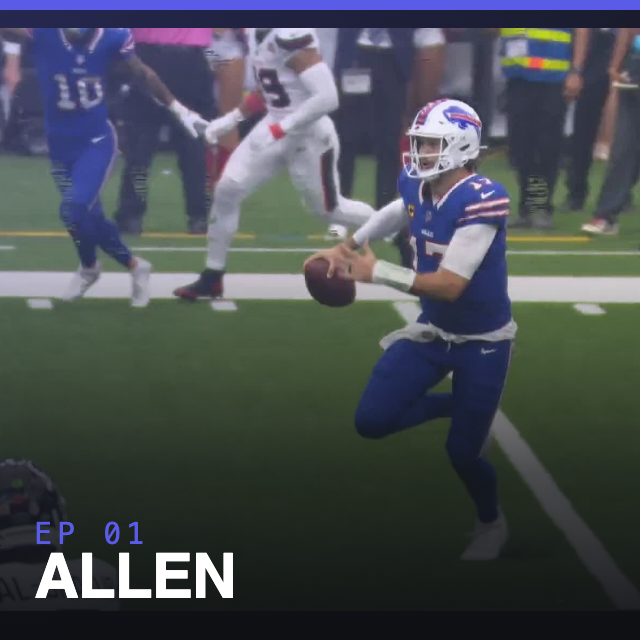
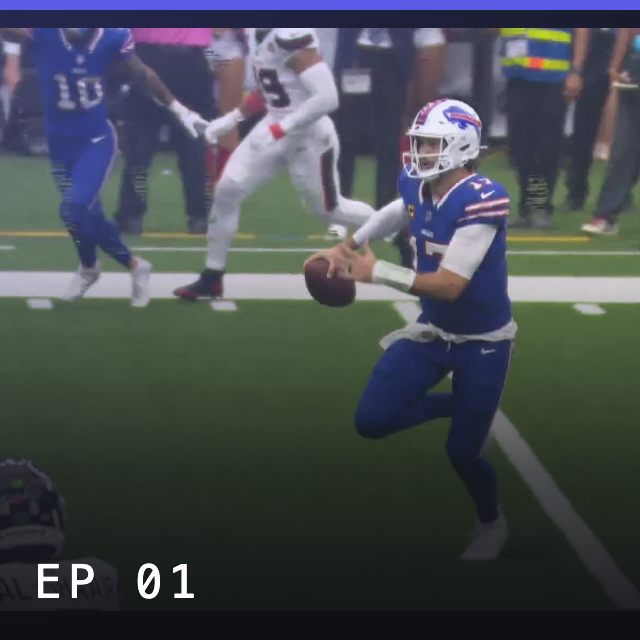
Drop player names from podcast cover art
The surname overlay was redundant -- the episode title sits directly beside the
art in the table -- and it crowded a 92px thumbnail. Only the episode number
remains, now set larger since it no longer shares the corner.

Changed region(s): [[0.0312, 0.8125, 0.375, 0.9375]]

diff --git a/podcasts.js b/podcasts.js
@@ -28,7 +28,7 @@ export const PODCAST_EPISODES = {
             duration: "9:09",
             slug: "2026-02-week-one-is-in-the-books",
             audio: "assets/podcasts/2026/ep02-week-one-is-in-the-books.mp3",
-            art: "assets/podcasts/art/2026-02-week-one-is-in-the-books.png?v=202609161008",
+            art: "assets/podcasts/art/2026-02-week-one-is-in-the-books.png?v=202609161130",
             description: "Ghost of New Jeantys hung 166.2 on the league — Jeanty 29.7, Dart 25.6, Bijan 25.3 — while Mickey C's managed 69.92 and the draft grades started lying immediately. Five of six games were blowouts, Cameron Dicker scored two for the team named after him, and only Bower Outage over Salamander stayed inside thirteen points.",
         },
         {
@@ -37,7 +37,7 @@ export const PODCAST_EPISODES = {
             duration: "14:12",
             slug: "2026-01-the-grades-are-in",
             audio: "assets/podcasts/2026/ep01-the-grades-are-in.mp3",
-            art: "assets/podcasts/art/2026-01-the-grades-are-in.png?v=202609161008",
+            art: "assets/podcasts/art/2026-01-the-grades-are-in.png?v=202609161130",
             description: "Draft recap and season predictions, graded off the site's own draft panel: three tiers, twelve teams, predicted standings and awards.",
         },
     ],

diff --git a/draft.js b/draft.js
@@ -1,5 +1,5 @@
-import { api } from "./dataService.js?v=202609161008";
-import { renderNav } from "./components/nav.js?v=202609161008";
+import { api } from "./dataService.js?v=202609161130";
+import { renderNav } from "./components/nav.js?v=202609161130";
 
 const PLAYER_PROFILES = {
   // 2026
@@ -465,8 +465,8 @@ async function renderCurrentDraftGrades(picks, year) {
         api.getPlayerValues(year).catch(() => ({})),
         api.getKeepers(year).catch(() => ({})),
         api.getPlayerNameMap().catch(() => ({})),
-        isCurrent ? fetch(`data/${year}/draft_news.json?v=202609161008`).then(r => r.ok ? r.json() : {items:[]}).catch(() => ({items:[]})) : Promise.resolve({items:[]}),
-        isCurrent ? fetch(`data/${year}/draft_writeups.json?v=202609161008`).then(r => r.ok ? r.json() : {teams:{}}).catch(() => ({teams:{}})) : Promise.resolve({teams:{}}),
+        isCurrent ? fetch(`data/${year}/draft_news.json?v=202609161130`).then(r => r.ok ? r.json() : {items:[]}).catch(() => ({items:[]})) : Promise.resolve({items:[]}),
+        isCurrent ? fetch(`data/${year}/draft_writeups.json?v=202609161130`).then(r => r.ok ? r.json() : {teams:{}}).catch(() => ({teams:{}})) : Promise.resolve({teams:{}}),
     ]);
 
     const normNm = s => (s || "").toLowerCase().replace(/[^a-z]/g, "");

diff --git a/transactions.html b/transactions.html
@@ -4,7 +4,7 @@
     <meta charset="UTF-8">
     <meta name="viewport" content="width=device-width, initial-scale=1.0">
     <title>Transactions</title>
-    <link rel="stylesheet" href="style.css?v=202609161008">
+    <link rel="stylesheet" href="style.css?v=202609161130">
     <style>
         .tx-tab-bar {
             display: flex;
@@ -45,9 +45,9 @@
     <div id="ta-container">Loading...</div>
 </div>
 
-<script src="data.js?v=202609161008"></script>
-<script type="module" src="transactions.js?v=202609161008"></script>
-<script type="module" src="trade_analyzer.js?v=202609161008"></script>
+<script src="data.js?v=202609161130"></script>
+<script type="module" src="transactions.js?v=202609161130"></script>
+<script type="module" src="trade_analyzer.js?v=202609161130"></script>
 <script>
     function txTab(tab) {
         document.getElementById('tab-transactions').classList.toggle('active', tab === 'transactions');

diff --git a/teams.html b/teams.html
@@ -4,7 +4,7 @@
     <meta charset="UTF-8">
     <meta name="viewport" content="width=device-width, initial-scale=1.0">
     <title>Teams</title>
-    <link rel="stylesheet" href="style.css?v=202609161008">
+    <link rel="stylesheet" href="style.css?v=202609161130">
     <style>
         .teams-tab-bar {
             display: flex;
@@ -49,9 +49,9 @@
     <div id="content">Loading...</div>
 </div>
 
-<script src="data.js?v=202609161008"></script>
-<script type="module" src="teams.js?v=202609161008"></script>
-<script type="module" src="assets.js?v=202609161008"></script>
+<script src="data.js?v=202609161130"></script>
+<script type="module" src="teams.js?v=202609161130"></script>
+<script type="module" src="assets.js?v=202609161130"></script>
 <script>
     function teamsTab(tab) {
         document.getElementById('tab-rosters').classList.toggle('active', tab === 'rosters');

diff --git a/draft.html b/draft.html
@@ -4,7 +4,7 @@
     <meta charset="UTF-8">
     <meta name="viewport" content="width=device-width, initial-scale=1.0">
     <title>Draft</title>
-    <link rel="stylesheet" href="style.css?v=202609161008">
+    <link rel="stylesheet" href="style.css?v=202609161130">
     <style>
         #draft-top-bar { display:flex; align-items:flex-start; gap:16px; margin-bottom:10px; }
         /* Position stat boxes */
@@ -44,7 +44,7 @@
     <div id="draft-analysis" style="margin-top:24px;"></div>
 </main>
 
-<script src="data.js?v=202609161008"></script>
-<script type="module" src="draft.js?v=202609161008"></script>
+<script src="data.js?v=202609161130"></script>
+<script type="module" src="draft.js?v=202609161130"></script>
 </body>
 </html>

diff --git a/season_history.html b/season_history.html
@@ -4,7 +4,7 @@
     <meta charset="UTF-8">
     <meta name="viewport" content="width=device-width, initial-scale=1.0">
     <title>Season History</title>
-    <link rel="stylesheet" href="style.css?v=202609161008">
+    <link rel="stylesheet" href="style.css?v=202609161130">
 </head>
 <body>
 <div id="nav"></div>
@@ -12,7 +12,7 @@
     <h1>Season History</h1>
     <div id="history-container">Loading...</div>
 </main>
-<script src="data.js?v=202609161008"></script>
-<script type="module" src="season_history.js?v=202609161008"></script>
+<script src="data.js?v=202609161130"></script>
+<script type="module" src="season_history.js?v=202609161130"></script>
 </body>
 </html>

diff --git a/trade_analyzer.html b/trade_analyzer.html
@@ -4,7 +4,7 @@
     <meta charset="UTF-8">
     <meta name="viewport" content="width=device-width, initial-scale=1.0">
     <title>Trade Analyzer</title>
-    <link rel="stylesheet" href="style.css?v=202609161008">
+    <link rel="stylesheet" href="style.css?v=202609161130">
 </head>
 <body>
 <div id="nav"></div>
@@ -12,7 +12,7 @@
     <h1>Trade Analyzer</h1>
     <div id="ta-container">Loading...</div>
 </main>
-<script src="data.js?v=202609161008"></script>
-<script type="module" src="trade_analyzer.js?v=202609161008"></script>
+<script src="data.js?v=202609161130"></script>
+<script type="module" src="trade_analyzer.js?v=202609161130"></script>
 </body>
 </html>

diff --git a/assets.html b/assets.html
@@ -5,7 +5,7 @@
     <meta name="viewport" content="width=device-width, initial-scale=1.0">
     <meta name="viewport" content="width=device-width, initial-scale=1.0">
     <title>Picks</title>
-    <link rel="stylesheet" href="style.css?v=202609161008">
+    <link rel="stylesheet" href="style.css?v=202609161130">
 </head>
 <body>
 
@@ -15,8 +15,8 @@
 
 <div id="content">Loading...</div>
 
-<script src="data.js?v=202609161008"></script>
-<script type="module" src="assets.js?v=202609161008"></script>
+<script src="data.js?v=202609161130"></script>
+<script type="module" src="assets.js?v=202609161130"></script>
 
 </body>
 </html>

diff --git a/head_to_head.html b/head_to_head.html
@@ -4,7 +4,7 @@
     <meta charset="UTF-8">
     <meta name="viewport" content="width=device-width, initial-scale=1.0">
     <title>Head to Head</title>
-    <link rel="stylesheet" href="style.css?v=202609161008">
+    <link rel="stylesheet" href="style.css?v=202609161130">
 </head>
 <body>
 
@@ -15,8 +15,8 @@
     <div id="h2h-container">Loading...</div>
 </main>
 
-<script src="data.js?v=202609161008"></script>
-<script type="module" src="head_to_head.js?v=202609161008"></script>
+<script src="data.js?v=202609161130"></script>
+<script type="module" src="head_to_head.js?v=202609161130"></script>
 
 </body>
 </html>

diff --git a/matchups.html b/matchups.html
@@ -4,13 +4,13 @@
     <meta charset="UTF-8">
     <meta name="viewport" content="width=device-width, initial-scale=1.0">
     <title>Matchups</title>
-    <link rel="stylesheet" href="style.css?v=202609161008">
+    <link rel="stylesheet" href="style.css?v=202609161130">
 </head>
 <body>
 <div id="nav"></div>
 <h1>Matchups</h1>
 <div id="matchups-container">Loading...</div>
-<script src="data.js?v=202609161008"></script>
-<script type="module" src="matchups.js?v=202609161008"></script>
+<script src="data.js?v=202609161130"></script>
+<script type="module" src="matchups.js?v=202609161130"></script>
 </body>
 </html>

diff --git a/team.html b/team.html
@@ -10,14 +10,14 @@
     <meta charset="UTF-8">
     <meta name="viewport" content="width=device-width, initial-scale=1.0">
     <title>Team</title>
-    <link rel="stylesheet" href="style.css?v=202609161008">
+    <link rel="stylesheet" href="style.css?v=202609161130">
 </head>
 <body>
 <div id="nav"></div>
 <main>
     <div id="team-container">Loading...</div>
 </main>
-<script src="data.js?v=202609161008"></script>
-<script type="module" src="team.js?v=202609161008"></script>
+<script src="data.js?v=202609161130"></script>
+<script type="module" src="team.js?v=202609161130"></script>
 </body>
 </html>

diff --git a/index.html b/index.html
@@ -4,7 +4,7 @@
     <meta charset="UTF-8">
     <meta name="viewport" content="width=device-width, initial-scale=1.0">
     <title>Darwinism</title>
-    <link rel="stylesheet" href="style.css?v=202609161008">
+    <link rel="stylesheet" href="style.css?v=202609161130">
 </head>
 <body>
 
@@ -14,8 +14,8 @@
 
 <div id="home-container">Loading...</div>
 
-<script src="data.js?v=202609161008"></script>
-<script type="module" src="home.js?v=202609161008"></script>
+<script src="data.js?v=202609161130"></script>
+<script type="module" src="home.js?v=202609161130"></script>
 
 </body>
 </html>
